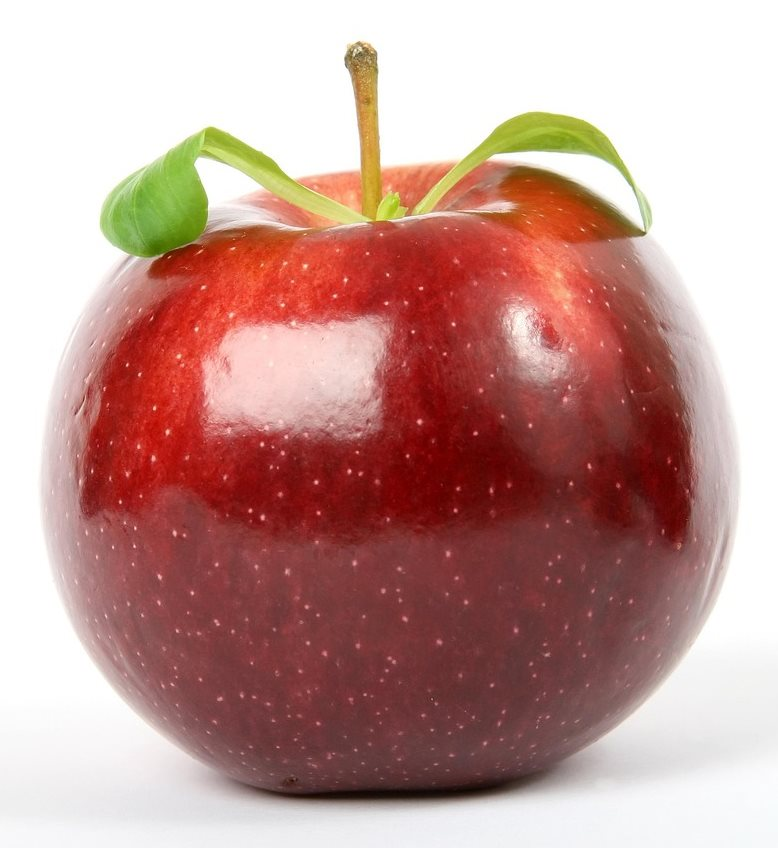
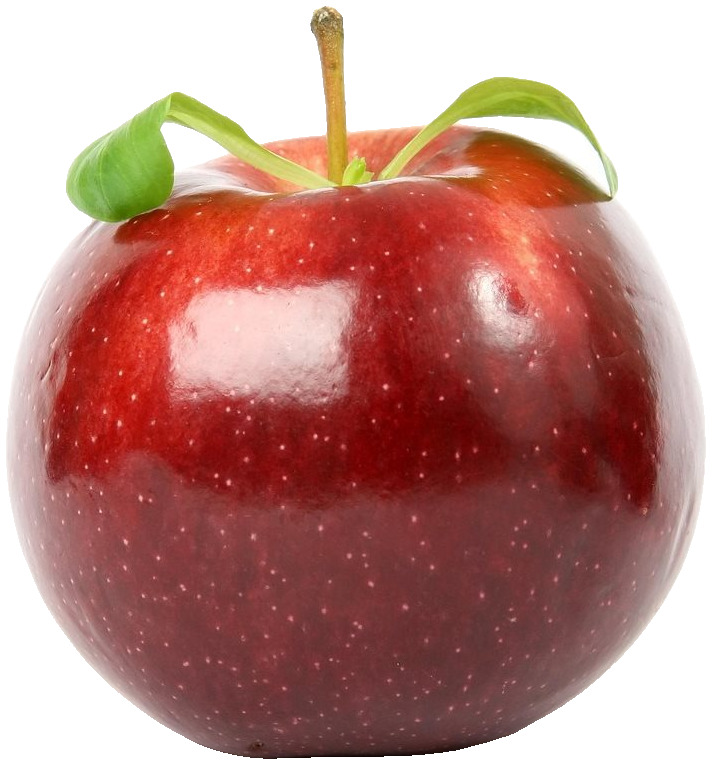
Тема «Продукты»: фон убран у всех 10 фото, версия 10

diff --git a/sw.js b/sw.js
@@ -1,6 +1,6 @@
 // Работа без интернета: при установке все файлы приложения сохраняются на устройстве.
 // ПРИ КАЖДОЙ ВЫКЛАДКЕ ПОВЫШАЙ НОМЕР ВЕРСИИ, иначе телефон будет показывать старую версию.
-const VERSION = 9;
+const VERSION = 10;
 
 const PREFIX = "slovo-za-slovom-v";
 const CACHE = PREFIX + VERSION;
